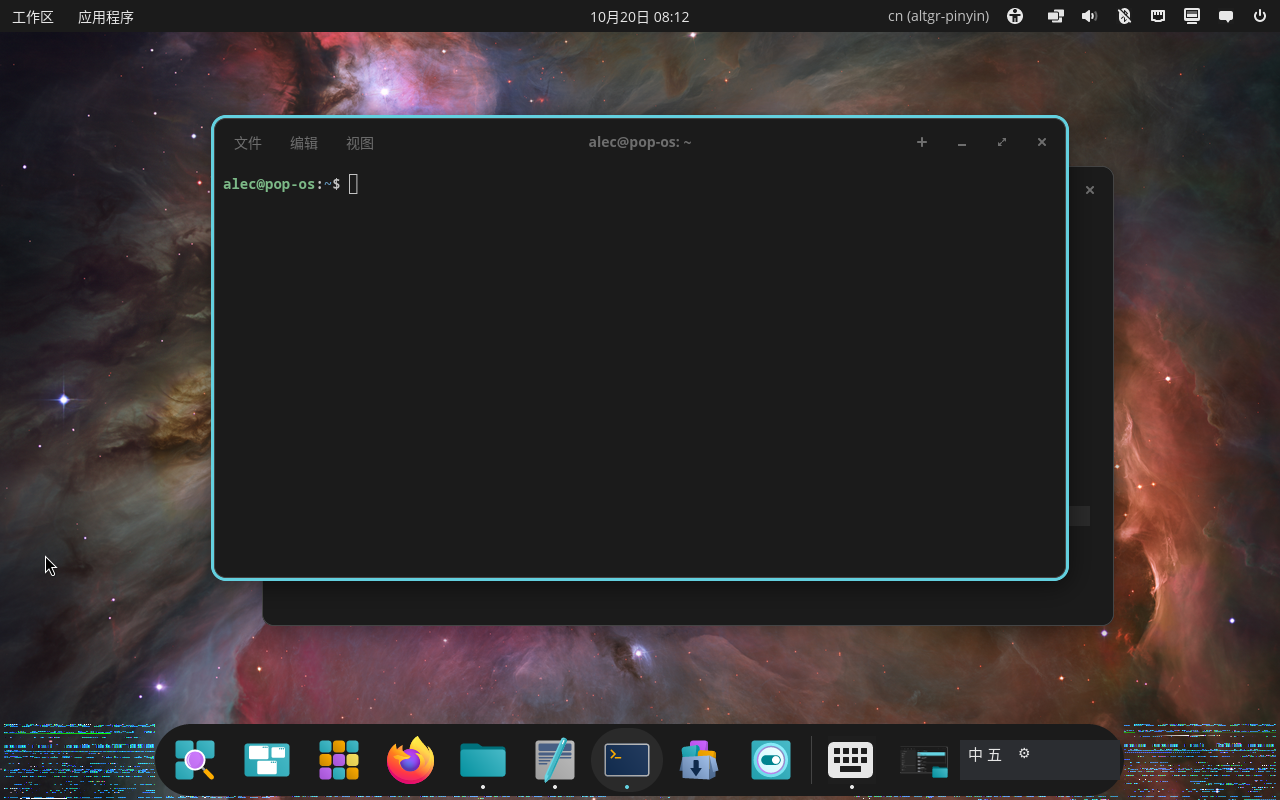
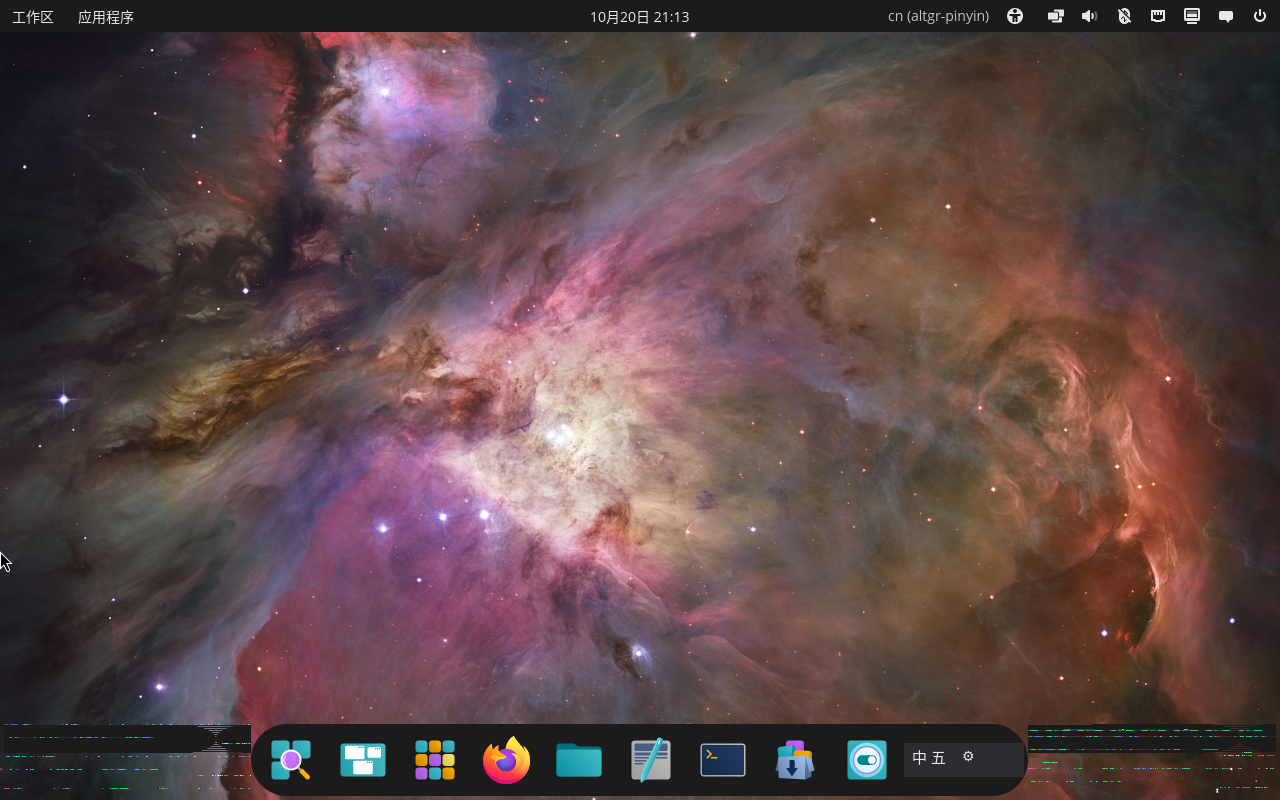
docs: 记录 applet HIG 与可访问性限制

diff --git a/docs/UI-AUDIT.md b/docs/UI-AUDIT.md
@@ -16,7 +16,15 @@
 - iced applet 通过 `X-CosmicApplet=true` 注册，加入 COSMIC Dock 的 `plugins_center`。
 - 显示 `中 五` / `中 拼` / `英`，状态来自 `$XDG_RUNTIME_DIR/rpci/state`。
 - 点击状态通过 Unix socket 切换中英；齿轮按钮打开 iced 设置。
+- 跟随 COSMIC `is_dark` 切换明暗主题；hover/pressed 使用圆角半透明背景。
+- 状态和设置按钮有 tooltip；Enter 可在 applet 获得键盘焦点时切换。
 - 截图：[assets/applet-panel.png](assets/applet-panel.png)。
+
+可访问性限制：
+
+- iced 0.14 不包含 AccessKit/AT-SPI，按钮没有屏幕阅读器可读名称和状态播报。
+- 没有使用 libcosmic applet 运行时；它依赖上游 submodule/未打包 API，当前以通用 iced applet 工作。
+- 键盘可达性只覆盖 applet 已获得焦点时的 Enter；面板级 Tab 导航由 COSMIC panel 决定。
 - 保存写入 `$XDG_CONFIG_HOME/rpci/config.toml`
 - 深色 COSMIC 风格调色板：`#1e1e1e` 背景、`#2b2b2b` 卡片、`#3584e4` 主色、12px 圆角
 - 安装为应用菜单主入口 `COSMIC IME 设置`

diff --git a/prototype/README.md b/prototype/README.md
@@ -211,7 +211,7 @@ ime-settings import <dir>        # 从目录恢复
 - 候选条屏幕边缘翻转尚未验证（HiDPI 已按 2x 渲染）
 - `cosmic-term` 不把 IME 提交写入 PTY，应用矩阵需逐个记录
 - iced 设置窗口已验证启动；候选窗因 input_popup_surface 协议限制仍是自绘；保存后需重启输入法
-- Panel applet 点击状态切换中英；齿轮打开设置
+- Panel applet 点击状态切换中英；齿轮打开设置；跟随明暗主题、hover、tooltip、Enter 切换\n- Panel applet 暂不支持 AccessKit/AT-SPI；libcosmic applet 运行时受上游打包限制
 - Firefox 尚未激活 IME，需要继续排查 text-input-v3 兼容性
 - Qt6 6.4.2 只支持 text-input v1/v2，COSMIC 只提供 v3；详见 `docs/QT6-AUDIT.md`
 - XWayland 没有 XIM 服务端，不能输入中文；详见 `docs/XWAYLAND-AUDIT.md`

diff --git a/docs/STATUS.md b/docs/STATUS.md
@@ -67,7 +67,7 @@ cargo test -p rpci-settings-iced  # 4 passed
 
 ### 输入法自身
 
-- Panel applet 已嵌入 Dock；点击状态切换中英，齿轮打开设置。
+- Panel applet 已嵌入 Dock；点击状态切换中英，齿轮打开设置；跟随明暗主题、hover、tooltip、Enter 切换。\n- applet 尚无 AccessKit/AT-SPI 屏幕阅读器支持；libcosmic applet 运行时受上游打包限制。
 - 候选窗未接 fractional scale；屏幕边缘翻转未验证。
 - 每个 seat 只能有一个输入法对象；与 `cosmic-osk` 的长期仲裁需要上游确认。
 - 仅候选数量/主题热加载；拼音兜底、默认英文模式仍需“保存并应用”或重启。

diff --git a/docs/ROADMAP.md b/docs/ROADMAP.md
@@ -79,7 +79,19 @@
 - 齿轮按钮打开 iced 设置
 - 状态文件与 applet 轮询同步
 
-**待做**：更完整的 applet 样式/可访问性。
+**已完成（HIG 打磨）**：
+
+- 跟随 COSMIC 明暗主题
+- hover/pressed 圆角背景
+- 状态/设置 tooltip
+- Enter 键盘切换
+- 截图更新到 [assets/applet-panel.png](assets/applet-panel.png)
+
+**待做（受上游限制）**：
+
+- libcosmic applet 运行时：依赖未打包的 libcosmic/iced submodule，当前不引入
+- AccessKit/AT-SPI：iced 0.14 不支持；需要换 libcosmic 或等 iced 上游
+- 面板级 Tab 导航由 COSMIC panel 控制，不在 applet 内
 
 ### 4. XWayland / XIM
 
